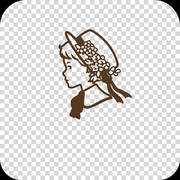
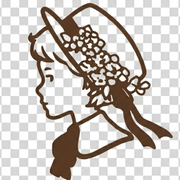
feat: ファビコンをwebp版に差し替え
Claude-Session: https://claude.ai/code/session_01L5P6wbj33vBdFn3afGhK8H

diff --git a/index.html b/index.html
@@ -23,7 +23,7 @@
   <link href="https://fonts.googleapis.com/css2?family=Cormorant+Garamond:ital,wght@0,400;0,600;1,400&family=Noto+Serif+JP:wght@300;400;500;600&family=Zen+Kaku+Gothic+New:wght@300;400;500&display=swap" rel="stylesheet">
 
   <!-- Favicon -->
-  <link rel="icon" type="image/png" href="images/favicon-32.png" sizes="32x32">
+  <link rel="icon" type="image/webp" href="images/favicon-32.webp" sizes="32x32">
   <link rel="apple-touch-icon" href="images/apple-touch-icon.png">
 
   <link rel="stylesheet" href="css/style.css">